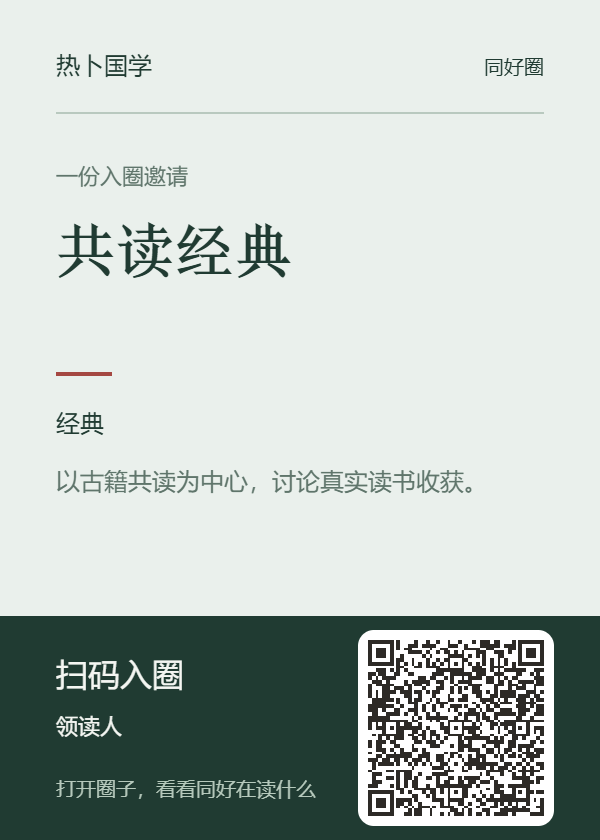
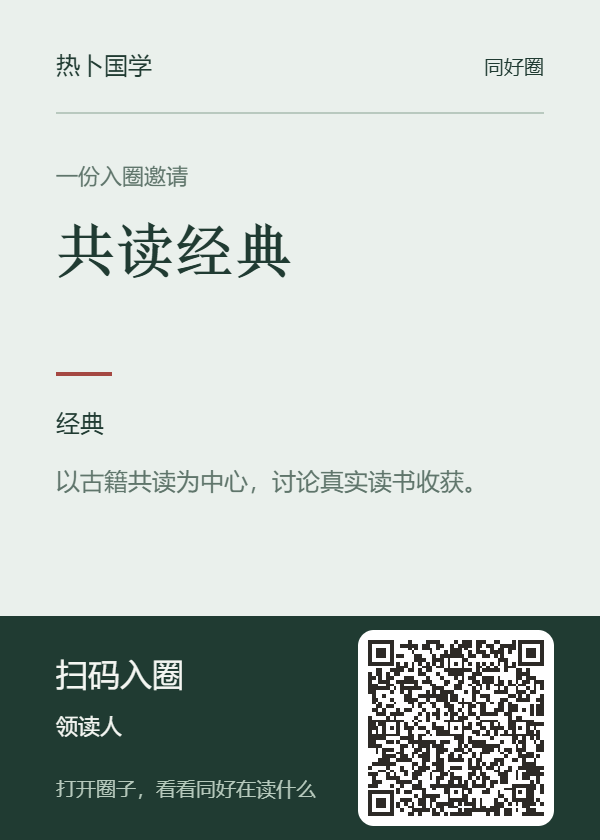
修复圈子海报冷启动分享域名竞态

Changed region(s): [[0.6, 0.7429, 0.93, 0.9905]]

diff --git a/apps/mobile/src/pkg-circle/common/share-poster/index.vue b/apps/mobile/src/pkg-circle/common/share-poster/index.vue
@@ -184,7 +184,7 @@ import {
   type PosterType,
   type PosterData,
 } from '@/pkg-circle/lib/poster-data'
-import { BRAND } from '@/lib/brand'
+import { BRAND, hydrateBrandConfig } from '@/lib/brand'
 import { drawQrToCanvas } from '@/utils/qrcode'
 import { goBack as platformGoBack } from '@/utils/router'
 import { useShare } from '@/composables/useShare'
@@ -272,6 +272,8 @@ async function loadData() {
   posterTempPath.value = ''
   verifiedInviteCode.value = ''
   try {
+    // 海报二维码生成后不可更新；先等待启动时的入口配置，避免落到旧域名。
+    await hydrateBrandConfig()
     const res = await getPosterData(posterType.value, targetId.value, circleId.value, requestedInviteCode.value)
     if (res.code === 200 && res.data) {
       posterData.value = res.data

diff --git a/docs/progress/圈子板块全域审计与发布边界-20260922.md b/docs/progress/圈子板块全域审计与发布边界-20260922.md
@@ -91,4 +91,4 @@
 
 2026-09-23 公告已读回访：公告页原每次打开都把已读状态置为未读，即使用户已成功确认，再次进入仍要求确认。现新增本人只读状态查询，先核实成员资格与公告所属圈子，再按 JWT 身份查 `CircleAnnouncementRead`；不把个人状态塞入公开公告的圈子级缓存。页面在重新显示时读取，状态接口失败显示重试，游客显示登录入口，非成员提示先加入圈子；成功确认后再次打开仍显示已读。服务端圈子单测 31/31、控制器测试 28/28 通过，隔离 H5 回归 `tests/release/circle-announcement-read-browser.mjs` 8 项通过（已读状态失败恢复、确认后回访、游客和非成员），仅 1 次已读 POST 被本地夹具拦截，未写真实账号。服务端正式构建、移动端类型检查、H5、App 与微信小程序正式构建通过；小程序 615 个 WXML、2683 个文本产物校验通过，主包 1.64 MB、保守上传估算 1.92 MB（余量 0.08 MB）、圈子分包 1.02 MB。目标环境成员权限与三端真机回访仍待验收。新只读接口须先于客户端部署。
 
-2026-09-23 邀请海报二维码落地复核：使用独立扫码库读取实际导出的 `artifacts/circle-invite-poster-20260923/invite-poster-export.png`，成功识别 1 个二维码，内容为本地夹具邀请码 `JOIN123` 对应的圈子预览链接。扩展 `tests/release/circle-invite-poster-browser.mjs`，以未登录访客打开同一链接的本地 H5 路由，确认圈名、邀请码自动填入和“免费加入”入口；隔离回归 15 项通过、0 业务写入、0 页面异常。此验证只证明图片可机读和候选 H5 路由可打开，不证明线上扫码或入圈已经验收。当前正式构建配置 `VITE_PUBLIC_H5_URL` 仍为 `https://api.rebugx.cn/h5/`，本地夹具导出图也指向该域名；运行时品牌配置可能覆盖分享入口，目标环境须核实其实际下发值。若最终入口改为 `gx.yrydai.com`，须先核对实际部署与品牌下发配置，再用最终包重新生成并扫码，不在本批擅自切域名。
+2026-09-23 邀请海报二维码落地与域名时序复核：海报生成前现先等待运行时品牌配置，避免用户刚打开 App 时抢先把编译期默认域名画入不可更新的二维码。隔离夹具把品牌 H5 地址延迟 800 毫秒下发为 `https://share.example.test/h5/`，`tests/release/circle-invite-poster-browser.mjs` 覆盖冷启动直达海报及常规入口，验证复制链接使用该地址；未登录访客打开同一路由后能看到圈名、自动填入的邀请码和“免费加入”入口。17 项通过、0 业务写入、1 次被夹具拦截的埋点、0 页面异常。独立扫码库读取实际导出的 `artifacts/circle-invite-poster-20260923/invite-poster-export.png`，识别出 1 个二维码，内容与复制链接一致，含本地夹具码 `JOIN123`。此验证只证明图片可机读和候选 H5 路由可打开，不证明线上扫码或入圈已经验收。当前正式构建配置 `VITE_PUBLIC_H5_URL` 仍为 `https://api.rebugx.cn/h5/`，实际分享地址可被运行时品牌配置覆盖；目标环境必须核实其下发值。若最终入口改为 `gx.yrydai.com`，须先核对实际部署与品牌配置，再用最终包重新生成并扫码，不在本批擅自切域名。移动端类型检查、正式 H5、App 和小程序构建通过；小程序 615 个 WXML、2683 个文本产物校验通过，主包 1.64 MB、保守上传估算 1.92 MB（余量 0.08 MB）、圈子分包 1.02 MB。App 构建通过不等于已产出或安装匹配的 Android 包。
